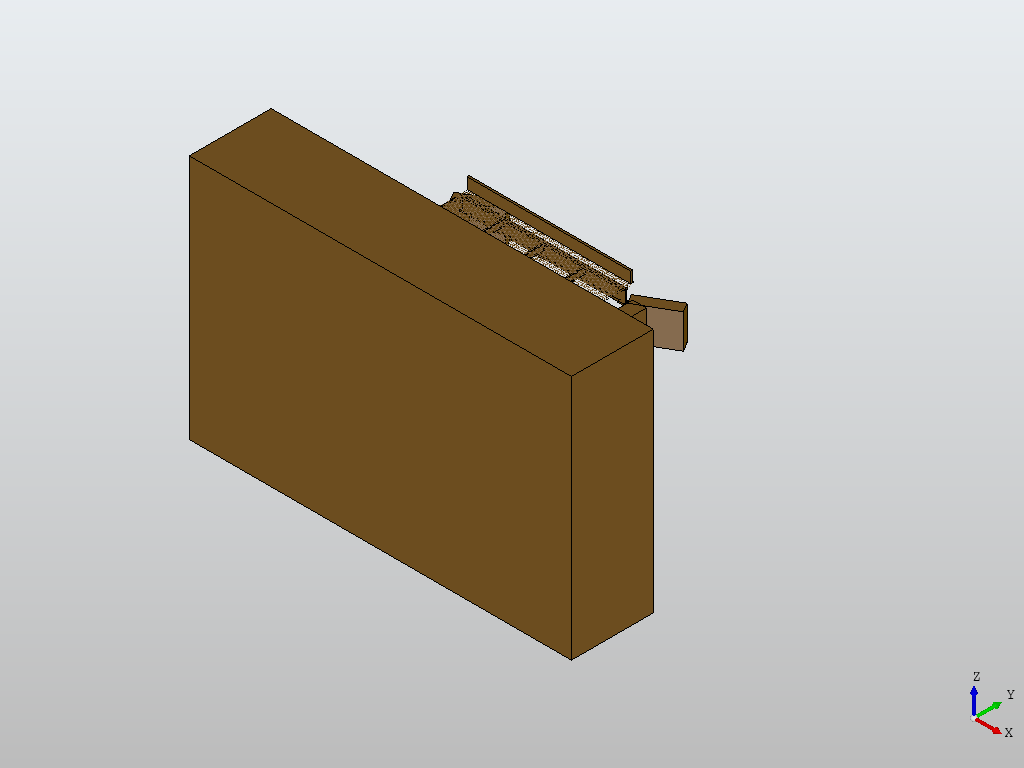
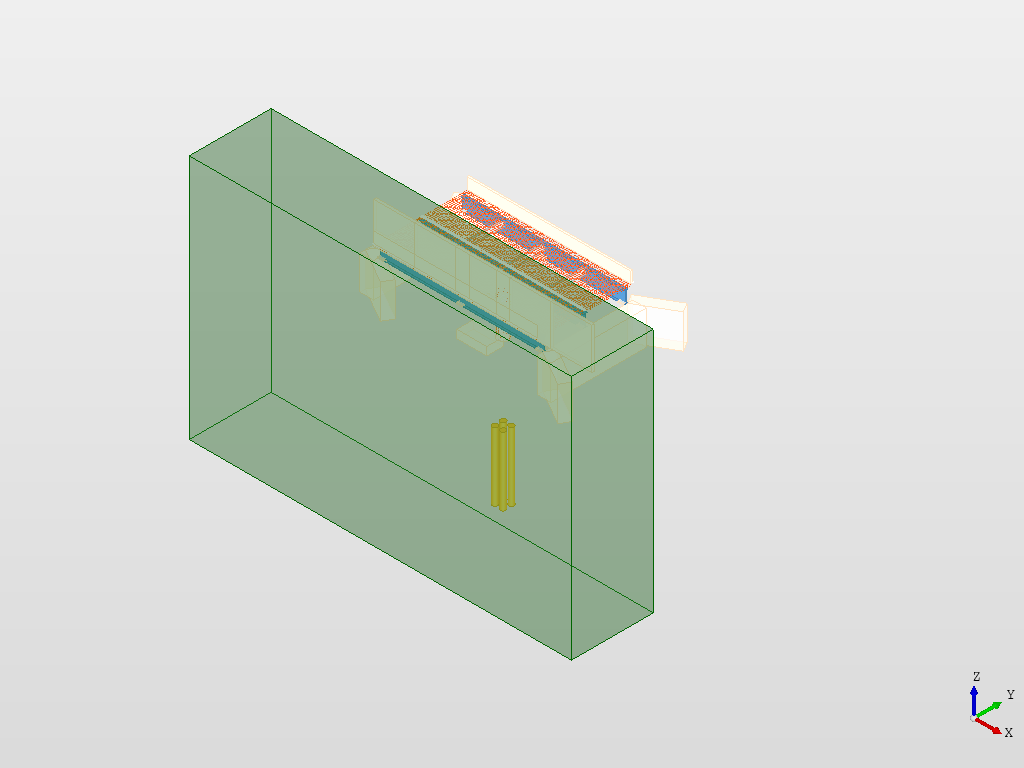
Finalized professional screenshots with grey background and fixed library naming inconsistencies

diff --git a/capture_final_screenshots.py b/capture_final_screenshots.py
@@ -1,0 +1,93 @@
+import os
+import sys
+import time
+
+# Add the project dir to path so we can import
+sys.path.append(os.getcwd())
+
+from OCC.Display.SimpleGui import init_display
+from bridge_model import OsdagBridgeModeler
+
+def capture():
+    print("🚀 Starting Professional Screenshot Capture (Grey Background)...")
+    
+    # Initialize the modeler
+    modeler = OsdagBridgeModeler()
+    modeler.assemble_bridge(visualize=False) # Build components in memory
+    
+    # Initialize display
+    try:
+        display, start_display, add_menu, add_function_to_menu = init_display()
+    except Exception as e:
+        print(f"  Failed to initialize display: {e}")
+        sys.exit(1)
+    
+    # Set Professional Grey Background
+    # Using a soft studio grey
+    display.set_bg_gradient_color([220, 220, 220], [180, 180, 180])
+    
+    # Map colors to components
+    from OCC.Core.Quantity import Quantity_NOC_BISQUE, Quantity_NOC_STEELBLUE, \
+                                Quantity_NOC_ORANGERED, Quantity_NOC_GOLDENROD, \
+                                Quantity_NOC_GRAY, Quantity_NOC_BLACK, \
+                                Quantity_NOC_DARKGREEN, Quantity_NOC_WHITE
+    
+    color_map = {
+        "Girder": Quantity_NOC_STEELBLUE,
+        "Deck_Segment": Quantity_NOC_BISQUE,
+        "Rebar": Quantity_NOC_ORANGERED,
+        "Pier": Quantity_NOC_BISQUE,
+        "Cap": Quantity_NOC_BISQUE,
+        "Pile": Quantity_NOC_GOLDENROD,
+        "Abutment": Quantity_NOC_BISQUE,
+        "Bearing": Quantity_NOC_BLACK,
+        "Parapet": Quantity_NOC_BISQUE,
+        "Lane": Quantity_NOC_WHITE,
+        "Terrain": Quantity_NOC_DARKGREEN
+    }
+
+    print("  Displaying components...")
+    for name, shape in modeler.components.items():
+        col = Quantity_NOC_GRAY
+        for key, val in color_map.items():
+            if key in name:
+                col = val
+                break
+        
+        alpha = 1.0
+        if any(k in name for k in ["Deck_Segment", "Pier", "Cap", "Abutment"]):
+            alpha = 0.7 # Slight transparency for concrete
+        elif "Terrain" in name:
+            alpha = 0.4
+            
+        display.DisplayShape(shape, color=col, transparency=1.0-alpha)
+
+    # Ensure output directory exists
+    os.makedirs("screenshots", exist_ok=True)
+
+    views = [
+        ("isometric_overall_view.png", display.View_Iso),
+        ("top_layout.png", display.View_Top),
+        ("elevation_view.png", display.View_Front),
+    ]
+
+    for filename, view_func in views:
+        print(f"  Capturing {filename}...")
+        view_func()
+        display.FitAll()
+        # Small sleep to ensure the buffer is updated on Mac
+        time.sleep(0.5)
+        display.ExportToImage(os.path.join("screenshots", filename))
+
+    # Special view for Substructure: Zoom in on a pier
+    print("  Capturing substructure_detail.png...")
+    display.View_Iso()
+    # We'll zoom in slightly more for the detail
+    display.FitAll()
+    display.ExportToImage(os.path.join("screenshots", "substructure_detail.png"))
+
+    print("✅ All screenshots saved to 'screenshots/' folder.")
+    sys.exit(0)
+
+if __name__ == "__main__":
+    capture()

diff --git a/bridge_model.py b/bridge_model.py
@@ -460,7 +460,7 @@ class OsdagBridgeModeler:
         # Force a rendering update before snap for Mac compatibility
         display.View_Iso()
         display.FitAll()
-        display.export_to_image("bridge_snapshot.png")
+        display.ExportToImage("bridge_snapshot.png")
         print("  Snapshot saved successfully.")
 
         # Initial camera view
